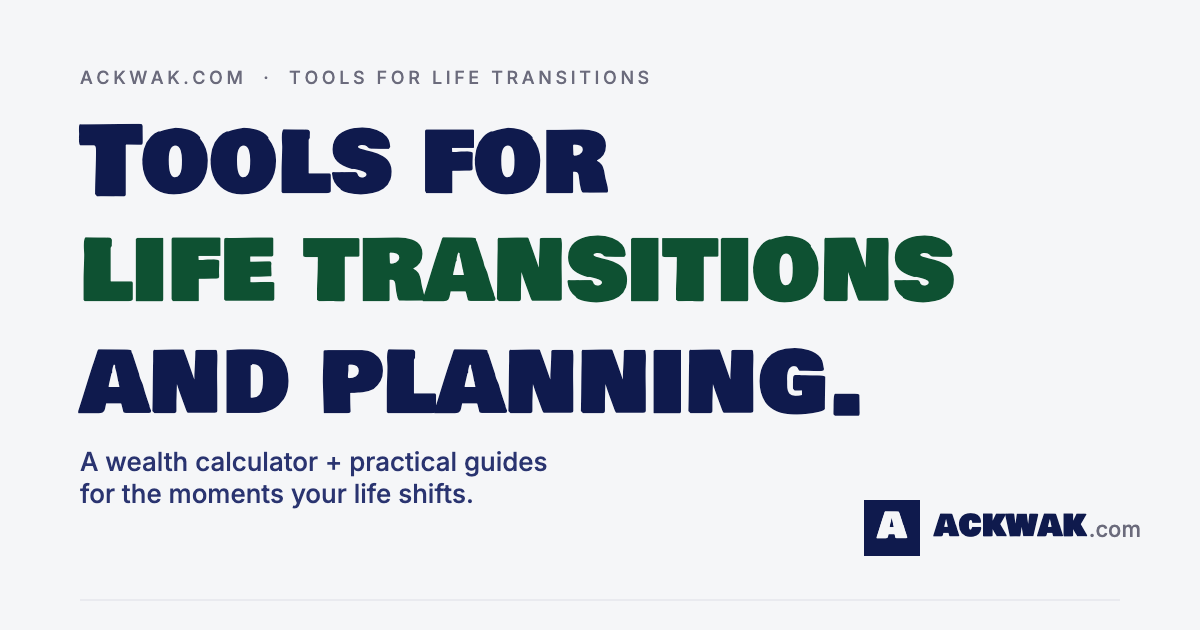
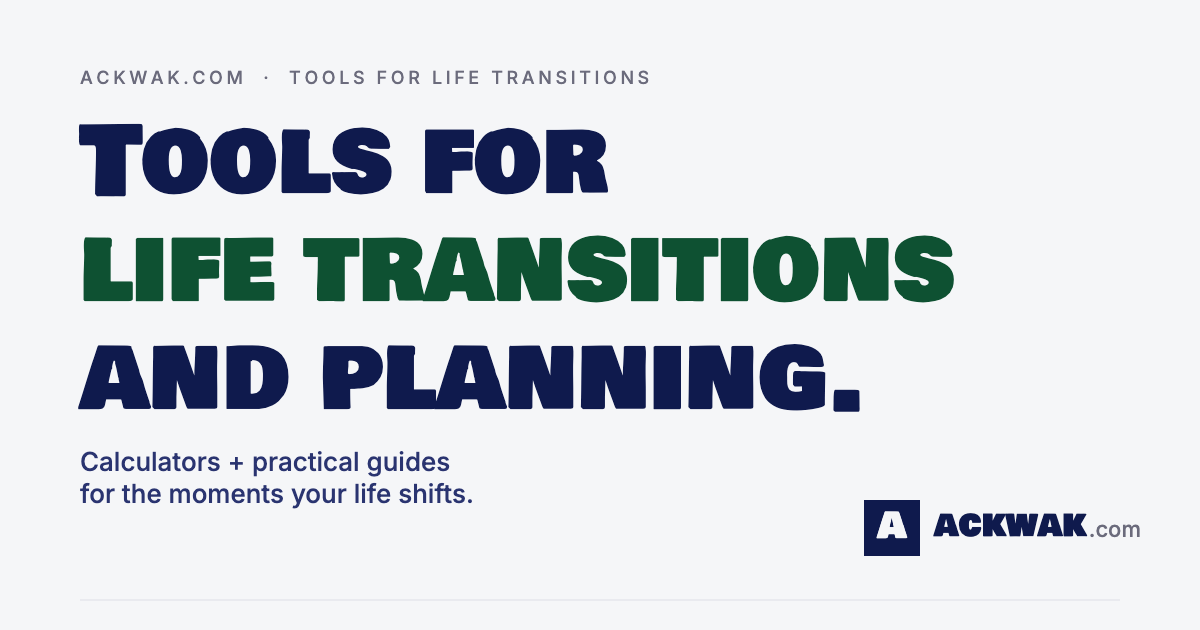
Replace 'wealth calculator' with 'calculators' across site and OG image

Changed region(s): [[0.2775, 0.5429, 0.7092, 0.6635], [0.0617, 0.5429, 0.2467, 0.6635], [0.0617, 0.7238, 0.4625, 0.754]]

diff --git a/src/TransitionsHubPage.jsx b/src/TransitionsHubPage.jsx
@@ -119,7 +119,7 @@ function AudienceCards() {
             icon={HandshakeIcon}
             label="It was my call"
             title="Leaving on your terms"
-            blurb="Voluntary, planned. From months out (thinking about it) through giving notice and the first weeks free. Different financial dynamics than a layoff."
+            blurb="Quitting for a new job, starting your own thing, retiring early, or just done with the role. Walks through the timeline from months out (thinking about it) through giving notice and the first weeks free."
             sample={[
               'Four-phase timeline from months out to after',
               'Counter-offers, vesting, equity windows',
@@ -236,10 +236,13 @@ function NotSureGuidance() {
             Not sure which one fits?
           </div>
           <p style={{ fontSize: 14, lineHeight: 1.55, color: T.ink, margin: 0, marginBottom: 8 }}>
-            Some situations sit between the two. If you're <strong>worried about an upcoming layoff but it hasn't happened yet</strong>, the Just Laid Off guide is mostly forward-looking advice and is probably more useful. If you're <strong>quitting because you think you're about to be laid off</strong>, both guides have content that applies; start with Leaving on Your Terms.
+            Most readers self-sort easily on one question: <strong>was it your decision?</strong> If yes, Leaving on Your Terms is for you, whether you're heading to a new job, starting your own thing, retiring early, taking time off, or just done with the current role. If the decision wasn't yours, Just Laid Off is the right guide.
+          </p>
+          <p style={{ fontSize: 13, lineHeight: 1.55, color: T.inkSoft, margin: 0, marginBottom: 8 }}>
+            A few situations sit between the two: if you're worried about an upcoming layoff but it hasn't happened yet, the Just Laid Off guide's planning content is probably more useful. If you're quitting because you suspect you're about to be laid off, both guides apply, but start with Leaving on Your Terms.
           </p>
           <p style={{ fontSize: 13, lineHeight: 1.55, color: T.inkSoft, margin: 0 }}>
-            The financial topics overlap a lot (health insurance, 401(k), runway, taxes), so reading both is reasonable if your situation is messy.
+            The financial topics (health insurance, 401(k), runway, taxes) overlap a lot. Reading both is reasonable if your situation is messy.
           </p>
         </div>
       </div>
@@ -314,7 +317,7 @@ function WhatsHere() {
                 fontWeight: 500, color: T.surface, letterSpacing: '-0.01em',
                 margin: 0, lineHeight: 1.2
               }}>
-                The wealth calculator
+                The calculators
               </h3>
               <p style={{ fontSize: 13, color: '#C9C4BB', margin: '8px 0 0 0', lineHeight: 1.5 }}>
                 Net worth, retirement readiness, and job loss runway. All free, all private, all in your browser.
@@ -388,7 +391,7 @@ function Footer() {
               ackwak.com
             </Link>
             <p style={{ fontSize: 13, color: T.inkSoft, lineHeight: 1.55, marginTop: 12, maxWidth: 420 }}>
-              A free, private wealth calculator and a growing library of guides for people in work transitions. No accounts, no tracking.
+              Free, private calculators and a growing library of guides for people in life transitions. No accounts, no tracking.
             </p>
           </div>
           <div>

diff --git a/index.html b/index.html
@@ -12,11 +12,11 @@
     <link rel="apple-touch-icon" sizes="180x180" href="/apple-touch-icon.png" />
 
     <title>ackwak.com, Tools for life transitions and planning</title>
-    <meta name="description" content="A free, private wealth calculator and practical guides for the moments your life shifts. Net worth, retirement readiness, and job loss runway. Plus content for layoffs, voluntary departures, and other transitions. No signup, no tracking." />
+    <meta name="description" content="Free, private calculators and practical guides for the moments your life shifts. Net worth, retirement readiness, and job loss runway. Plus content for layoffs, voluntary departures, and other transitions. No signup, no tracking." />
 
     <!-- Open Graph (used by iMessage, Slack, LinkedIn, Facebook, etc. for link previews) -->
     <meta property="og:title" content="ackwak.com, Tools for life transitions and planning" />
-    <meta property="og:description" content="A free, private wealth calculator and practical guides for the moments your life shifts. Net worth, retirement, runway. Plus content for layoffs and voluntary departures. No signup, no tracking." />
+    <meta property="og:description" content="Free, private calculators and practical guides for the moments your life shifts. Net worth, retirement, runway. Plus content for layoffs and voluntary departures. No signup, no tracking." />
     <meta property="og:type" content="website" />
     <meta property="og:url" content="https://ackwak.com" />
     <meta property="og:image" content="https://ackwak.com/og-image.png" />
@@ -27,7 +27,7 @@
     <!-- Twitter Card -->
     <meta name="twitter:card" content="summary_large_image" />
     <meta name="twitter:title" content="ackwak.com, Tools for life transitions and planning" />
-    <meta name="twitter:description" content="A free, private wealth calculator and practical guides for life transitions. No signup, no tracking." />
+    <meta name="twitter:description" content="Free, private calculators and practical guides for life transitions. No signup, no tracking." />
     <meta name="twitter:image" content="https://ackwak.com/og-image.png" />
 
     <meta name="theme-color" content="#0F1A4D" />

diff --git a/src/App.jsx b/src/App.jsx
@@ -324,7 +324,7 @@ function Hero() {
           fontSize: 'clamp(16px, 2vw, 20px)', lineHeight: 1.5,
           color: T.inkSoft, maxWidth: 720, marginBottom: 36
         }}>
-          A free, private wealth calculator and a real-world guide for the moments your life shifts. See your net worth today, when you can retire, and how long your runway lasts. Plus practical content for layoffs, voluntary departures, and other transitions.
+          A set of free, private calculators and practical guides for the moments your life shifts. See your net worth today, when you can retire, and how long your runway lasts. Plus practical content for layoffs, voluntary departures, and other transitions.
         </p>
 
         <div className="flex items-center gap-3 flex-wrap mb-12">

diff --git a/src/JustLaidOffPage.jsx b/src/JustLaidOffPage.jsx
@@ -672,7 +672,7 @@ function Footer() {
               ackwak.com
             </Link>
             <p style={{ fontSize: 13, color: T.inkSoft, lineHeight: 1.55, marginTop: 12, maxWidth: 420 }}>
-              A free, private wealth calculator and a growing library of guides for people in work transitions. No accounts, no tracking.
+              Free, private calculators and a growing library of guides for people in life transitions. No accounts, no tracking.
             </p>
           </div>
           <div>

diff --git a/src/LeavingOnYourTermsPage.jsx b/src/LeavingOnYourTermsPage.jsx
@@ -776,7 +776,7 @@ function Footer() {
               ackwak.com
             </Link>
             <p style={{ fontSize: 13, color: T.inkSoft, lineHeight: 1.55, marginTop: 12, maxWidth: 420 }}>
-              A free, private wealth calculator and a growing library of guides for people in work transitions. No accounts, no tracking.
+              Free, private calculators and a growing library of guides for people in life transitions. No accounts, no tracking.
             </p>
           </div>
           <div>